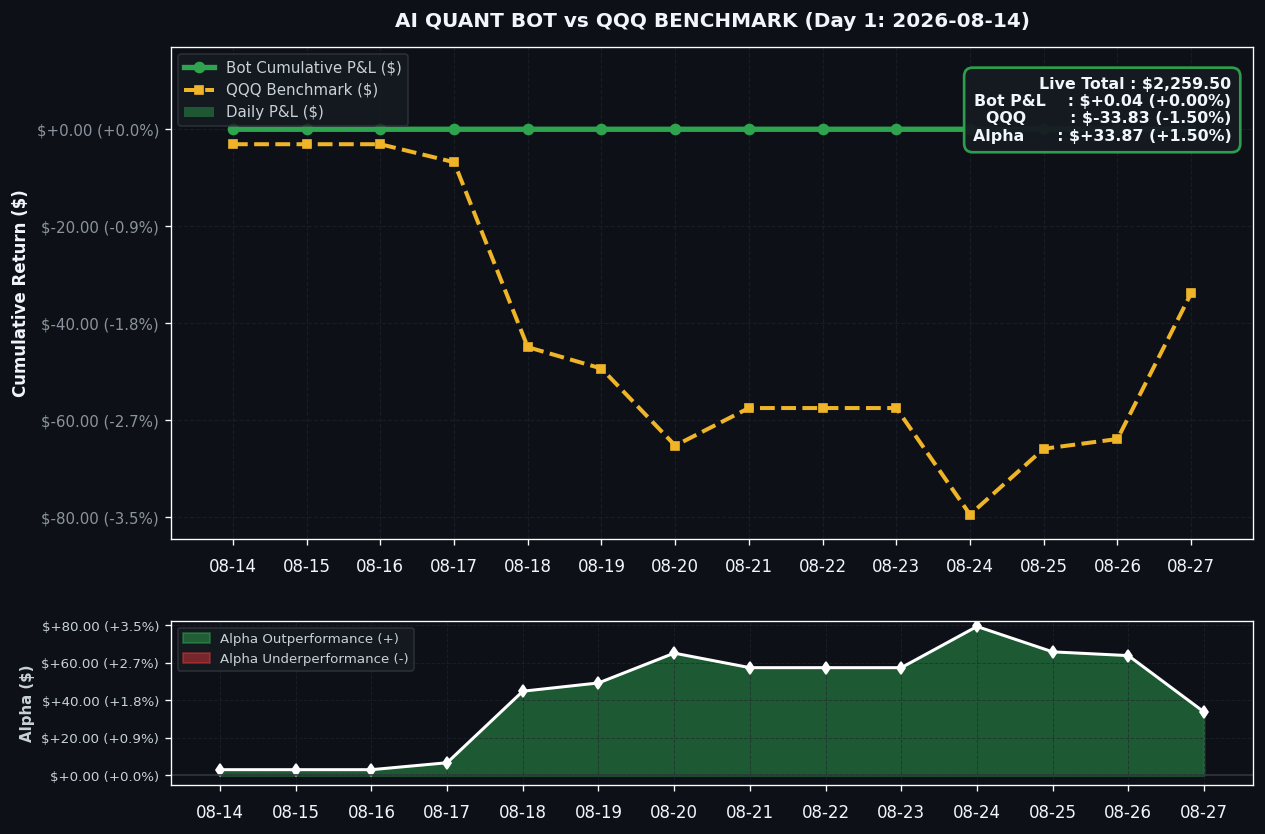
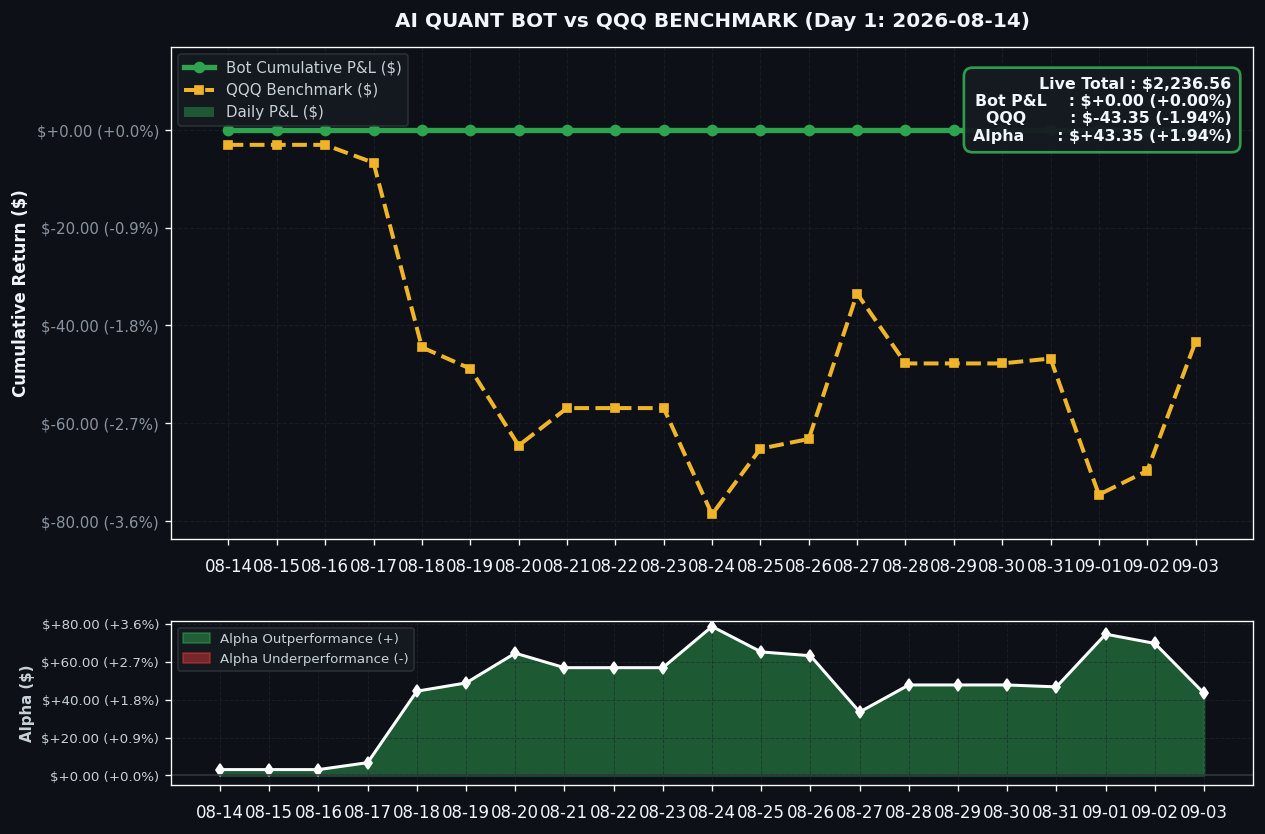
chore(sync): complete 100% full-system parity sync and stale file purge

diff --git a/universe.py b/universe.py
@@ -3874,7 +3874,7 @@ def get_all_symbols() -> list:
             logger.error("Dynamic fetch failed: {}", e)
     
     # 3) 폴백
-    if not symbols or len(symbols) < 50000000:
+    if not symbols or len(symbols) < 50000000000000:
         logger.warning("Using core universe fallback ({} symbols)", len(CORE_UNIVERSE))
         symbols = MASTER_3500_UNIVERSE.copy()
     
